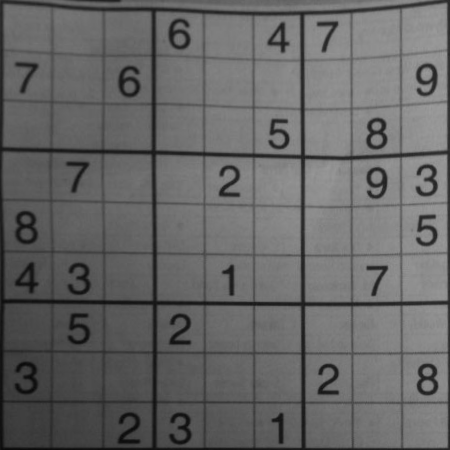
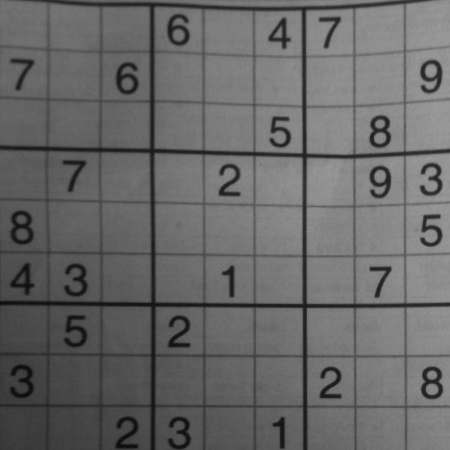
findContours

diff --git a/Sudoku.js b/Sudoku.js
@@ -77,11 +77,12 @@ class Sudoku {
         // cv.imwrite('2.png', result);
 
         const size = 450;
+        const edge = 5;
         const dst = [
-            new cv.Point2(size, 0), 
-            new cv.Point2(0, 0), 
-            new cv.Point2(0, size), 
-            new cv.Point2(size, size)
+            new cv.Point2(size + edge, -edge), 
+            new cv.Point2(-edge, -edge), 
+            new cv.Point2(-edge, size + edge), 
+            new cv.Point2(size + edge, size + edge)
         ];
         const m = cv.getPerspectiveTransform(docCnt, dst);
         result = result.warpPerspective(m, new cv.Size(size, size));
@@ -97,18 +98,48 @@ class Sudoku {
         const kernel = cv.getStructuringElement(cv.MORPH_ELLIPSE, new cv.Size(11, 11));
         const close = img_Blur.morphologyEx(kernel, cv.MORPH_CLOSE);
         const div = img_Blur.hDiv(close);
-        let img_brightness_adjust = div.normalize(0, 255, cv.NORM_MINMAX);
-        cv.imwrite('4.png', img_brightness_adjust);
-
-        // 角
-        let corners = img_brightness_adjust.goodFeaturesToTrack(35, 0.05, 10);
-        for (const point2 of corners) {
-            img_brightness_adjust.drawCircle(point2, 5, new cv.Vec3(0, 0, 255));
-        }
-        cv.imwrite('5.png', img_brightness_adjust)
+        result = div.normalize(0, 255, cv.NORM_MINMAX);
+        cv.imwrite('4.png', result);
 
         const edgeSize = smallGrid / 8;
         const deteSmallGridSize = smallGrid - edgeSize * 2;
+        const smallGridArea = smallGrid ** 2;
+
+
+        // test 找數字
+        let testImg = result.copy();
+        const testImgCnt = testImg.findContours(cv.RETR_TREE, cv.CHAIN_APPROX_SIMPLE);
+        console.log(testImgCnt);
+        // testImg.drawContours(testImgCnt, new cv.Vec3(0, 0, 255));
+        for (const i in testImgCnt) {
+            const { x, y, width, height } = testImgCnt[i].boundingRect();
+            const area = testImgCnt[i].area;
+            // console.log(i, area, smallGridArea, smallGridArea / 18);
+            if (area <= smallGridArea && area >= smallGridArea / 18) {
+                testImg.drawRectangle(
+                    new cv.Point2(x, y),
+                    new cv.Point2(x + width, y + height)
+                );
+            } else {
+                delete testImgCnt[i];
+            }
+        }
+
+        /*
+        for (let i = 0; i < this.length; i++) {
+            for (let j = 0; j < this.length; j++) {
+                testImg.drawRectangle(
+                    new cv.Point2(edgeSize + smallGrid * i, edgeSize + smallGrid * j), 
+                    new cv.Point2(edgeSize + smallGrid * i + deteSmallGridSize, edgeSize + smallGrid * j + deteSmallGridSize), 
+                    new cv.Vec3(0, 0, 255),
+                );
+            }
+        }
+        */
+        cv.imwrite('5.png', testImg);
+
+
+
         // (async () => {
         //     const worker = Tesseract.createWorker();
         //     await worker.load();
